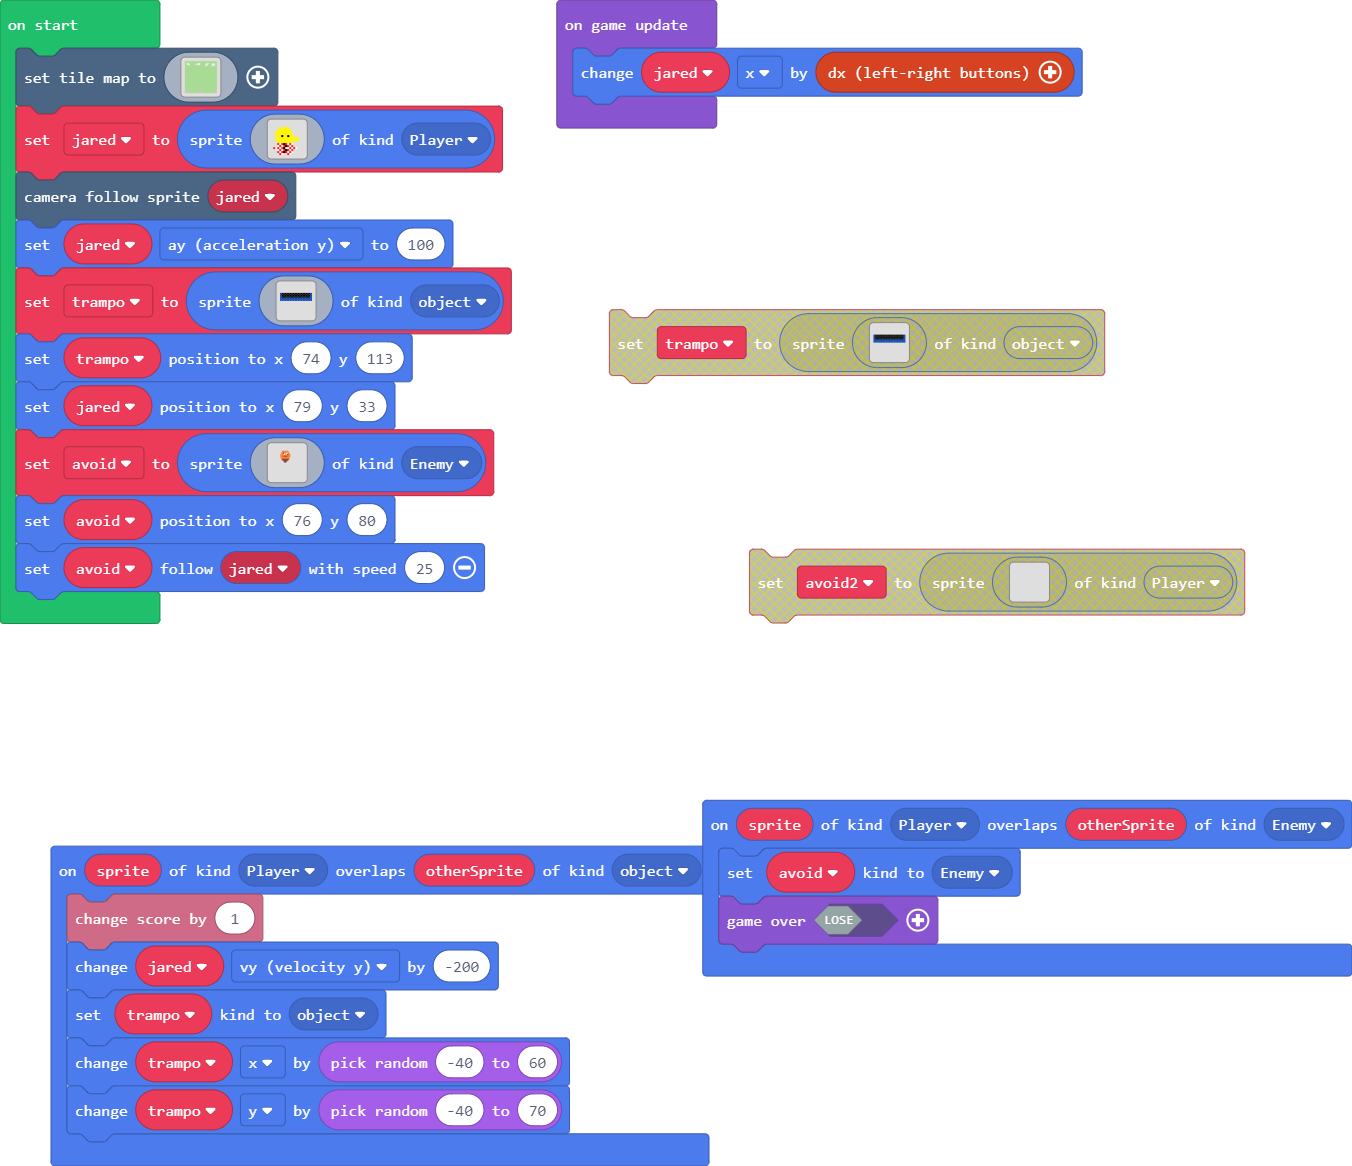
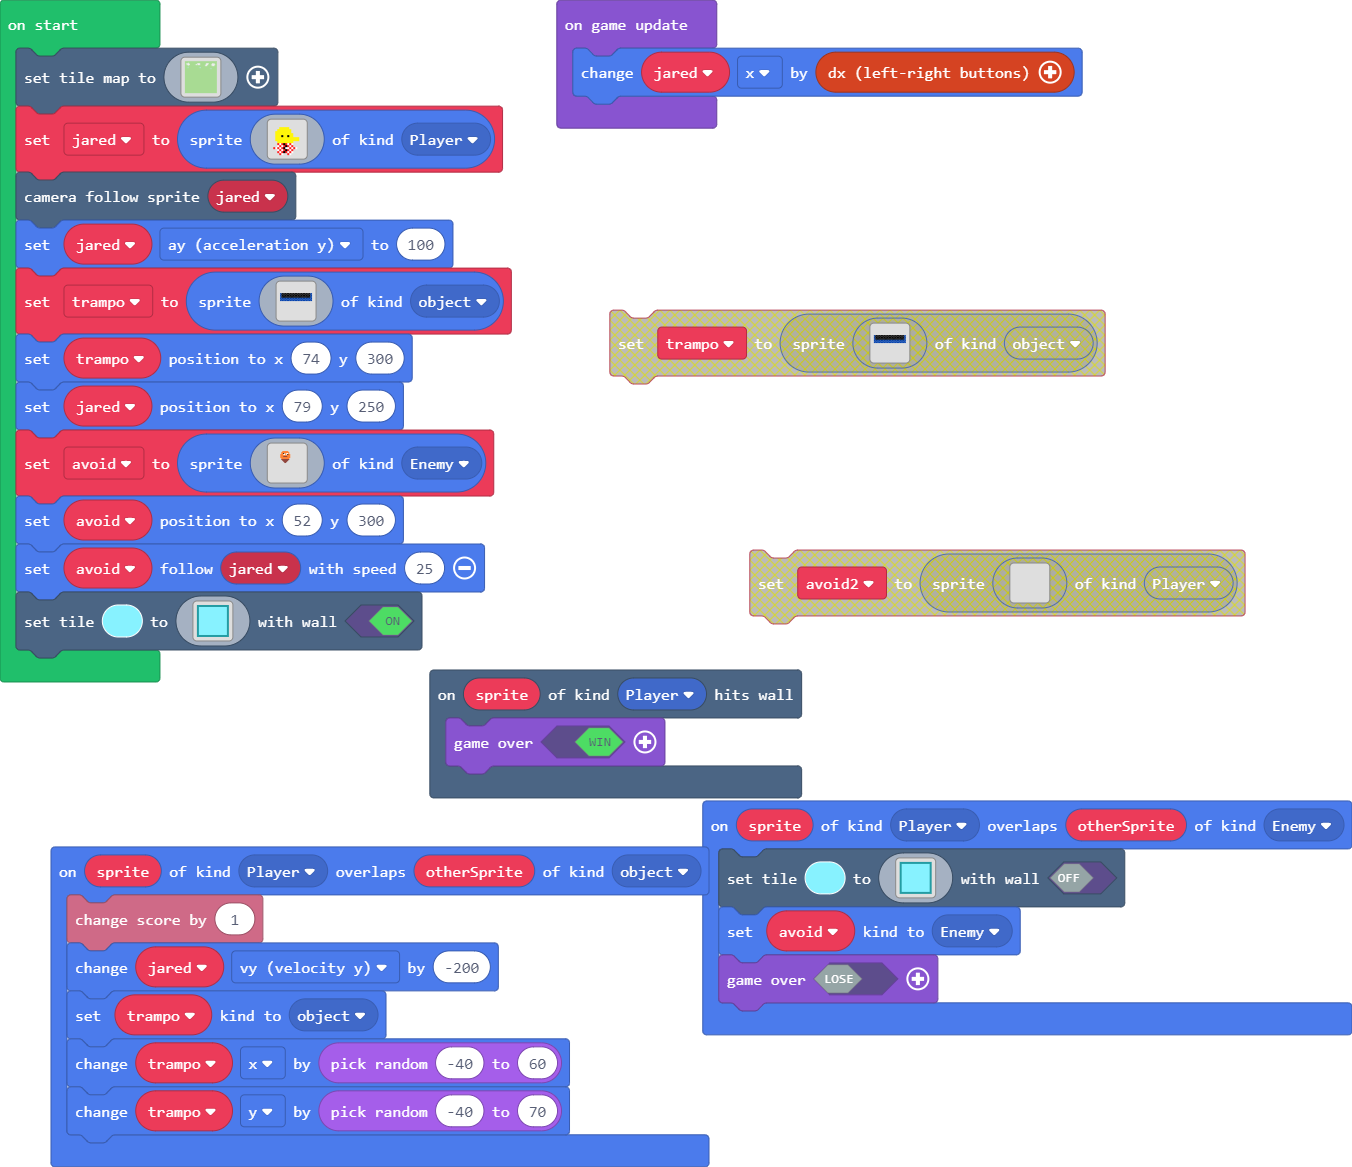
Update main.blocks, main.ts

diff --git a/main.ts b/main.ts
@@ -22,7 +22,28 @@ namespace myTiles {
 . . . . . . . . . . . . . . . . 
 `
 }
+scene.onHitWall(SpriteKind.Player, function (sprite) {
+    game.over(true)
+})
 sprites.onOverlap(SpriteKind.Player, SpriteKind.Enemy, function (sprite, otherSprite) {
+    scene.setTile(9, img`
+6 6 6 6 6 6 6 6 6 6 6 6 6 6 6 6 
+6 9 9 9 9 9 9 9 9 9 9 9 9 9 9 6 
+6 9 9 9 9 9 9 9 9 9 9 9 9 9 9 6 
+6 9 9 9 9 9 9 9 9 9 9 9 9 9 9 6 
+6 9 9 9 9 9 9 9 9 9 9 9 9 9 9 6 
+6 9 9 9 9 9 9 9 9 9 9 9 9 9 9 6 
+6 9 9 9 9 9 9 9 9 9 9 9 9 9 9 6 
+6 9 9 9 9 9 9 9 9 9 9 9 9 9 9 6 
+6 9 9 9 9 9 9 9 9 9 9 9 9 9 9 6 
+6 9 9 9 9 9 9 9 9 9 9 9 9 9 9 6 
+6 9 9 9 9 9 9 9 9 9 9 9 9 9 9 6 
+6 9 9 9 9 9 9 9 9 9 9 9 9 9 9 6 
+6 9 9 9 9 9 9 9 9 9 9 9 9 9 9 6 
+6 9 9 9 9 9 9 9 9 9 9 9 9 9 9 6 
+6 9 9 9 9 9 9 9 9 9 9 9 9 9 9 6 
+6 6 6 6 6 6 6 6 6 6 6 6 6 6 6 6 
+`, false)
     avoid.setKind(SpriteKind.Enemy)
     game.over(false)
 })
@@ -49,6 +70,9 @@ scene.setTileMap(img`
 7 7 7 7 7 7 7 7 7 7 7 7 7 7 7 7 7 7 7 7 7 7 7 7 7 7 7 7 7 7 7 7 7 7 7 7 7 7 7 7 7 1 1 1 7 7 7 7 7 7 7 7 7 7 7 1 1 1 7 7 7 7 7 7 
 7 7 7 7 7 7 7 7 7 7 7 7 7 7 7 7 7 7 7 7 7 7 7 7 7 7 7 7 7 7 7 7 7 7 7 7 7 7 7 7 7 7 7 7 7 7 7 7 7 7 7 7 7 7 7 7 7 7 7 7 7 7 7 7 
 7 7 7 7 7 7 7 7 7 7 7 7 7 7 7 7 7 7 7 7 7 7 7 7 7 7 7 7 7 7 7 7 7 7 7 7 7 7 7 7 7 7 7 7 7 7 7 7 7 7 7 7 7 7 7 7 7 7 7 7 7 7 7 7 
+7 7 7 7 7 9 9 9 7 7 7 7 7 7 7 7 7 7 7 7 7 7 7 7 7 7 7 7 7 7 7 9 7 7 7 7 7 7 7 7 7 7 7 7 7 7 7 7 7 7 7 7 7 7 7 7 7 7 7 7 7 7 7 7 
+7 7 7 7 7 7 7 7 7 7 7 7 7 7 7 7 7 7 7 7 7 7 7 7 7 7 7 7 7 9 9 9 7 7 7 7 7 7 7 7 7 7 7 7 7 7 7 7 7 7 7 7 7 7 7 7 7 7 7 7 7 7 7 7 
+7 7 7 7 7 7 7 7 7 7 7 7 7 7 7 7 7 7 7 7 7 7 7 7 7 7 7 7 7 7 7 7 7 7 7 7 7 7 7 7 7 7 7 7 7 7 7 7 7 7 9 9 9 9 7 7 7 7 7 7 7 7 7 7 
 7 7 7 7 7 7 7 7 7 7 7 7 7 7 7 7 7 7 7 7 7 7 7 7 7 7 7 7 7 7 7 7 7 7 7 7 7 7 7 7 7 7 7 7 7 7 7 7 7 7 7 7 7 7 7 7 7 7 7 7 7 7 7 7 
 7 7 7 7 7 7 7 7 7 7 7 7 7 7 7 7 7 7 7 7 7 7 7 7 7 7 7 7 7 7 7 7 7 7 7 7 7 7 7 7 7 7 7 7 7 7 7 7 7 7 7 7 7 7 7 7 7 7 7 7 7 7 7 7 
 7 7 7 7 7 7 7 7 7 7 7 7 7 7 7 7 7 7 7 7 7 7 7 7 7 7 7 7 7 7 7 7 7 7 7 7 7 7 7 7 7 7 7 7 7 7 7 7 7 7 7 7 7 7 7 7 7 7 7 7 7 7 7 7 
@@ -92,15 +116,12 @@ scene.setTileMap(img`
 7 7 7 7 7 7 7 7 7 7 7 7 7 7 7 7 7 7 7 7 7 7 7 7 7 7 7 7 7 7 7 7 7 7 7 7 7 7 7 7 7 7 7 7 7 7 7 7 7 7 7 7 7 7 7 7 7 7 7 7 7 7 7 7 
 7 7 7 7 7 7 7 7 7 7 7 7 7 7 7 7 7 7 7 7 7 7 7 7 7 7 7 7 7 7 7 7 7 7 7 7 7 7 7 7 7 7 7 7 7 7 7 7 7 7 7 7 7 7 7 7 7 7 7 7 7 7 7 7 
 7 7 7 7 7 7 7 7 7 7 7 7 7 7 7 7 7 7 7 7 7 7 7 7 7 7 7 7 7 7 7 7 7 7 7 7 7 7 7 7 7 7 7 7 7 7 7 7 7 7 7 7 7 7 7 7 7 7 7 7 7 7 7 7 
-3 7 7 7 7 7 7 3 7 7 7 7 7 7 7 7 7 7 7 7 7 7 7 7 7 7 7 3 7 7 7 7 7 3 7 7 7 7 7 7 7 7 7 7 7 7 7 7 7 7 7 7 7 7 3 7 7 7 7 7 7 7 7 3 
-3 7 7 7 7 7 7 3 7 7 7 7 7 7 7 7 7 7 7 7 7 7 7 7 7 7 7 3 7 7 7 7 7 3 7 7 7 7 7 7 7 7 7 7 7 7 7 7 7 7 7 7 7 7 3 7 7 7 7 7 7 7 7 3 
-3 7 7 7 7 7 7 3 7 7 7 7 7 7 7 7 7 7 7 7 7 7 7 7 7 7 7 3 7 7 7 7 7 3 7 7 7 7 7 7 7 7 7 7 7 7 7 7 7 7 7 7 7 7 3 7 7 7 7 7 7 7 7 3 
-3 7 7 7 7 7 7 3 7 7 7 7 7 7 7 7 7 7 7 7 7 7 7 7 7 7 7 3 7 7 7 7 7 3 7 7 7 7 7 7 7 7 7 7 7 7 7 7 7 7 7 7 7 7 3 7 7 7 7 7 7 7 7 3 
-3 7 7 7 7 7 7 3 7 7 7 7 7 7 7 7 7 7 7 7 7 7 7 7 7 7 7 3 7 7 7 7 7 3 7 7 7 7 7 7 7 7 7 7 7 7 7 7 7 7 7 7 7 7 3 7 7 7 7 7 7 7 7 3 
-3 7 7 7 7 7 7 3 7 7 7 7 7 7 7 7 7 7 7 7 7 7 7 7 7 7 7 3 7 7 7 7 7 3 7 7 7 7 7 7 7 7 7 7 7 7 7 7 7 7 7 7 7 7 3 7 7 7 7 7 7 7 7 3 
-3 7 7 7 7 7 7 3 7 7 7 7 7 7 7 7 7 7 7 7 7 7 7 7 7 7 7 3 7 7 7 7 7 3 7 7 7 7 7 7 7 7 7 7 7 7 7 7 7 7 7 7 7 7 3 7 7 7 7 7 7 7 7 3 
-3 7 7 7 7 7 7 3 7 7 7 7 7 7 7 7 7 7 7 7 7 7 7 7 7 7 7 3 7 7 7 7 7 3 7 7 7 7 7 7 7 7 7 7 7 7 7 7 7 7 7 7 7 7 3 7 7 7 7 7 7 7 7 3 
-3 3 3 3 3 3 3 3 7 7 7 7 7 7 7 7 7 7 7 7 7 7 7 7 7 7 7 3 3 3 3 3 3 3 7 7 7 7 7 7 7 7 7 7 7 7 7 7 7 7 7 7 7 7 3 3 3 3 3 3 3 3 3 3 
+7 7 7 7 7 7 7 7 7 7 7 7 7 7 7 7 7 7 7 7 7 7 7 7 7 7 7 7 7 7 7 7 7 7 7 7 7 7 7 7 7 7 7 7 7 7 7 7 7 7 7 7 7 7 7 7 7 7 7 7 7 7 7 7 
+7 7 7 7 7 7 7 7 7 7 7 7 7 7 7 7 7 7 7 7 7 7 7 7 7 7 7 7 7 7 7 7 7 7 7 7 7 7 7 7 7 7 7 7 7 7 7 7 7 7 7 7 7 7 7 7 7 7 7 7 7 7 7 7 
+7 7 7 7 7 7 7 7 7 7 7 7 7 7 7 7 7 7 7 7 7 7 7 7 7 7 7 7 7 7 7 7 7 7 7 7 7 7 7 7 7 7 7 7 7 7 7 7 7 7 7 7 7 7 7 7 7 7 7 7 7 7 7 7 
+7 7 7 7 7 7 7 7 7 7 7 7 7 7 7 7 7 7 7 7 7 7 7 7 7 7 7 7 7 7 7 7 7 7 7 7 7 7 7 7 7 7 7 7 7 7 7 7 7 7 7 7 7 7 7 7 7 7 7 7 7 7 7 7 
+7 7 7 7 7 7 7 7 7 7 7 7 7 7 7 7 7 7 7 7 7 7 7 7 7 7 7 7 7 7 7 7 7 7 7 7 7 7 7 7 7 7 7 7 7 7 7 7 7 7 7 7 7 7 7 7 7 7 7 7 7 7 7 7 
+7 7 7 7 7 7 7 7 7 7 7 7 7 7 7 7 7 7 7 7 7 7 7 7 7 7 7 7 7 7 7 7 7 7 7 7 7 7 7 7 7 7 7 7 7 7 7 7 7 7 7 7 7 7 7 7 7 7 7 7 7 7 7 7 
 `)
 jared = sprites.create(img`
 . . . . . . . . . . . . . . . . 
@@ -144,8 +165,8 @@ trampo = sprites.create(img`
 . . . . . . . . . . . . . . . . . . . . 
 . . . . . . . . . . . . . . . . . . . . 
 `, SpriteKind.object)
-trampo.setPosition(74, 113)
-jared.setPosition(79, 33)
+trampo.setPosition(74, 300)
+jared.setPosition(79, 250)
 avoid = sprites.create(img`
 . . . . . . . . . . . . . . . . . . . . . . . . . . . . . . . . 
 . . . . . . . . . . . . . . . . . . . . . . . . . . . . . . . . 
@@ -180,8 +201,26 @@ avoid = sprites.create(img`
 . . . . . . . . . . . . . . . . . . . . . . . . . . . . . . . . 
 . . . . . . . . . . . . . . . . . . . . . . . . . . . . . . . . 
 `, SpriteKind.Enemy)
-avoid.setPosition(76, 80)
+avoid.setPosition(52, 300)
 avoid.follow(jared, 25)
+scene.setTile(9, img`
+6 6 6 6 6 6 6 6 6 6 6 6 6 6 6 6 
+6 9 9 9 9 9 9 9 9 9 9 9 9 9 9 6 
+6 9 9 9 9 9 9 9 9 9 9 9 9 9 9 6 
+6 9 9 9 9 9 9 9 9 9 9 9 9 9 9 6 
+6 9 9 9 9 9 9 9 9 9 9 9 9 9 9 6 
+6 9 9 9 9 9 9 9 9 9 9 9 9 9 9 6 
+6 9 9 9 9 9 9 9 9 9 9 9 9 9 9 6 
+6 9 9 9 9 9 9 9 9 9 9 9 9 9 9 6 
+6 9 9 9 9 9 9 9 9 9 9 9 9 9 9 6 
+6 9 9 9 9 9 9 9 9 9 9 9 9 9 9 6 
+6 9 9 9 9 9 9 9 9 9 9 9 9 9 9 6 
+6 9 9 9 9 9 9 9 9 9 9 9 9 9 9 6 
+6 9 9 9 9 9 9 9 9 9 9 9 9 9 9 6 
+6 9 9 9 9 9 9 9 9 9 9 9 9 9 9 6 
+6 9 9 9 9 9 9 9 9 9 9 9 9 9 9 6 
+6 6 6 6 6 6 6 6 6 6 6 6 6 6 6 6 
+`, true)
 game.onUpdate(function () {
     jared.x += controller.dx()
 })
